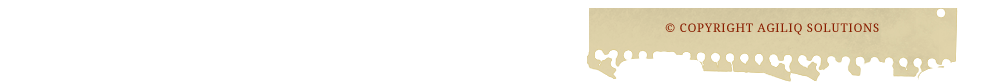
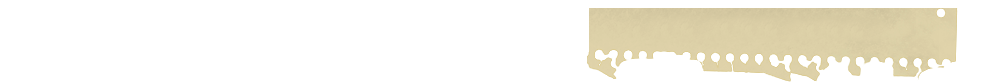
images to text changes in design

Changed region(s): [[0.651, 0.2683, 0.899, 0.3902]]

diff --git a/example/site_media/blogango/css/as_blog_styles.css b/example/site_media/blogango/css/as_blog_styles.css
@@ -13,7 +13,7 @@ html, body, div, span, applet, object, iframe, h1, h2, h3, h4, h5, h6, p, blockq
 	border: 0;
 	outline: 0;
 }
-ol, ul {
+ul {
 	list-style: none;
 }
 /* tables still need 'cellspacing="0"' in the markup */
@@ -37,12 +37,13 @@ blockquote, q {
 body{background:url(../images/wood_bg.jpg);}
 #mainpage_bg{background:url(../images/mainpage_bg.jpg) no-repeat center top;  min-height:1100px;}
 #page_container{width:1000px; display:block; margin:0px auto; min-height:870px; }
-#header{width:950px; display:block; padding-top:90px; margin:0px auto;}
-#breadcrumbs{width:950px; display:block; padding-top:70px; margin:0px auto; }
+#header{width:950px; display:block; padding-top:90px; margin:0px auto; height:127px;}
+#breadcrumbs{width:950px; display:block; padding-top:10px; margin:0px auto; }
 #content_block{width:1000px; display:block; background-color:#FFF; margin:0px auto;}
 #content_block .leftpanel{width:600px; display:block; float:left; margin-left:25px; }
 #content_block .rightpanel{width:328px; display:block; float:right; margin-right:15px; }
 #footerbg{width:1000px; margin:0px auto;background:url(../images/footer_bg.png) no-repeat center top; min-height:100px;}
+#footerbg .footertext {float:right; margin:10px 120px 0px 0px ;font-family: 'Droid Serif', arial, serif; font-size:14px; font-style:normal; color:#962000;line-height:40px; text-decoration:none; font-weight:normal; }
 
 
 /**************************************/
@@ -57,6 +58,7 @@ h6{font-family: 'Droid Serif', arial, serif; font-size:12px; font-style:normal;c
 h1.post_title{font-size:24px; font-style:normal; font-weight:normal;border-bottom:1px dashed #CFBD83; text-decoration:none;  }
 h1.post_title:hover{font-size:24px; font-style:normal; font-weight:normal;border-bottom:1px dashed #CFBD83; color:#000; text-decoration:none;  }
 h6.posted_by{font-style:italic;  font-weight:normal; margin-bottom:20px; }
+h1.message{width:300px; float:right; font-family: 'Lobster', arial, serif; font-size:16px; line-height:20px; font-weight:normal; padding-top:20px; color:#A6A6A6; letter-spacing:1px;}
 
 p{font-family: 'Droid Serif', arial, serif; font-size:12px; font-style:normal; color:#393939;line-height:20px;  margin-bottom:15px; text-align:left;}
 /**************************************/
@@ -108,12 +110,18 @@ a:link, a:visited,#crumbs li a:hover,#crumbs li a:focus {	color:#000;	}
 .comment_block hr{border:1px solid #f5f2df; }
 .comment_block .right_panel ul{ }
 .comment_block .right_panel ul li{ margin-left:30px; list-style-type:disc;}
+.comment_block .right_panel ol{ margin:10px 0px 10px 30px; }
+.comment_block .right_panel ol li{ list-style-type:decimal;}
 .picborder{border:5px solid #fff;}
 
 .frame_bg{width:88px; height:93px; background:url(../images/frame_bg.png) no-repeat; padding:14px 0px 0px 24px;}
 .italics{font-family: 'Droid Serif', arial, serif; font-size:12px; font-style:italic;color:#962000;line-height:30px; text-align:center;}
+.italics a{color:#962000;text-decoration:none;}
+.italics a:hover{color:#000;}
 .comment_bg{ background:url(../images/bubble_bg.png) no-repeat; width:41px; height:39px; margin:0px auto; font-family: 'Droid Serif', arial, serif; font-size:14px; font-style:italic;color:#962000;line-height:30px; color:#FFF; text-align:center;}
+.comment_bg a{text-decoration:none;}
 .reactions_bg{ background:url(../images/reactions_bg.png) no-repeat; width:44px; height:44px; margin:0px auto;  font-family: 'Droid Serif', arial, serif; font-size:14px; font-style:italic;color:#962000;line-height:40px; color:#FFF; text-align:center;}
+.reactions_bg a{text-decoration:none;}
 .topics{font:bold 11px Tahoma, Geneva, sans-serif; color:#962000; clear:both; margin-bottom:50px;}
 .topics a{font:bold 11px Tahoma, Geneva, sans-serif; color:#962000;padding:5px; background:#EDDA9C; margin:0px 5px 0px 5px;}
 .topics a:hover{font:bold 11px Tahoma, Geneva, sans-serif; color:#FFF; padding:5px; background:#905533; }

diff --git a/blogango/templates/blogango/base.html b/blogango/templates/blogango/base.html
@@ -9,6 +9,7 @@
 <link href="{{ MEDIA_URL }}blogango/css/as_blog_styles.css" rel="stylesheet" type="text/css" />
 <link href="{{ MEDIA_URL }}blogango/css/prettify.css" rel="stylesheet" type="text/css" />
 <link href='http://fonts.googleapis.com/css?family=Droid+Serif:regular,bold&subset=latin' rel='stylesheet' type='text/css'>
+<link href='http://fonts.googleapis.com/css?family=Lobster' rel='stylesheet' type='text/css'>
 <link href='http://fonts.googleapis.com/css?family=Molengo&subset=latin' rel='stylesheet' type='text/css'>
 {% if feed_url %}
     <link rel="alternate" type="application/rss+xml" title="The Agiliq Blog - Django Web Development RSS Feed" href="{{feed_url}}" />
@@ -28,7 +29,15 @@
   <!--PAGE CONTAINER STARTS-->
   <div id="page_container">
     <!-- HEADER STARTS HERE -->
-    <div id="header"><a href="{% url blogango_index %}"><img src="{{ MEDIA_URL }}blogango/images/agiliq_blog_logo.png" width="206" height="67" alt="Agiliq Solutions" /></a></div>
+    <div id="header">
+	  <a href="{% url blogango_index %}">
+		<img src="{{ MEDIA_URL }}blogango/images/agiliq_blog_logo.png" width="206" height="67" alt="Agiliq Solutions" />
+	  </a>
+	  <h1 class="message">
+		We love designing and developing websites, but what really drives us is 
+		solving problems and cultivating strong relationships with our clients
+	  </h1>
+	</div>
     <!-- HEADER ENDS HERE -->
     <!-- BREADCRUMBS STARTS HERE -->
     <div id="breadcrumbs">
@@ -92,7 +101,9 @@
   </div>
   <!--PAGE CONTAINER ENDS-->
   <!--FOOTER CONTAINER STARTS-->
-  <div id="footerbg"></div>
+  <div id="footerbg">
+	<span class='footertext'>&copy;COPYRIGHT AGILIQ SOLUTIONS</span>
+  </div>
   <!--FOOTER CONTAINER ENDS-->
 </div>
 <!--BASE CONTAINER ENDS-->

diff --git a/blogango/templates/blogango/entry_snippets.html b/blogango/templates/blogango/entry_snippets.html
@@ -7,7 +7,11 @@
             <img src="{{ MEDIA_URL }}blogango/images/person_default.jpg" width="71" height="72" alt="{{ entry.created_by }}" />
         {% endif %}
     </div>
-    <div class="italics">{{ entry.created_on|date:'jS N, Y' }}</div>
+    <div class="italics">
+	  <a href='{% url blogango_archives entry.created_on.year entry.created_on|date:"b" %}'>
+		{{ entry.created_on|date:'jS N, Y' }}
+	  </a>
+	</div>
     <div class="comment_bg"><a href="{{ entry.get_absolute_url }}#comments">{{ entry.get_num_comments }}</a></div>
     <div class="italics">Comments</div>
     <div class="reactions_bg"><a href="{{ entry.get_absolute_url }}#reactions">{{ entry.get_num_reactions }}</a></div>
@@ -21,7 +25,9 @@
 	{% else %}
 	  <p>{{ entry.text|truncatewords_html:100|safe }} </p>
 	{% endif %}
-    <a href="{{ entry.get_absolute_url }}" class="moreinfo">more info..</a>
+	{% if not post_detail %}
+	  <a href="{{ entry.get_absolute_url }}" class="moreinfo">more info..</a>
+	{% endif %}
     <div class="topics">
 	{% for tag in entry.tags.all %}
       {% if forloop.first %}Topics : {% endif %}
